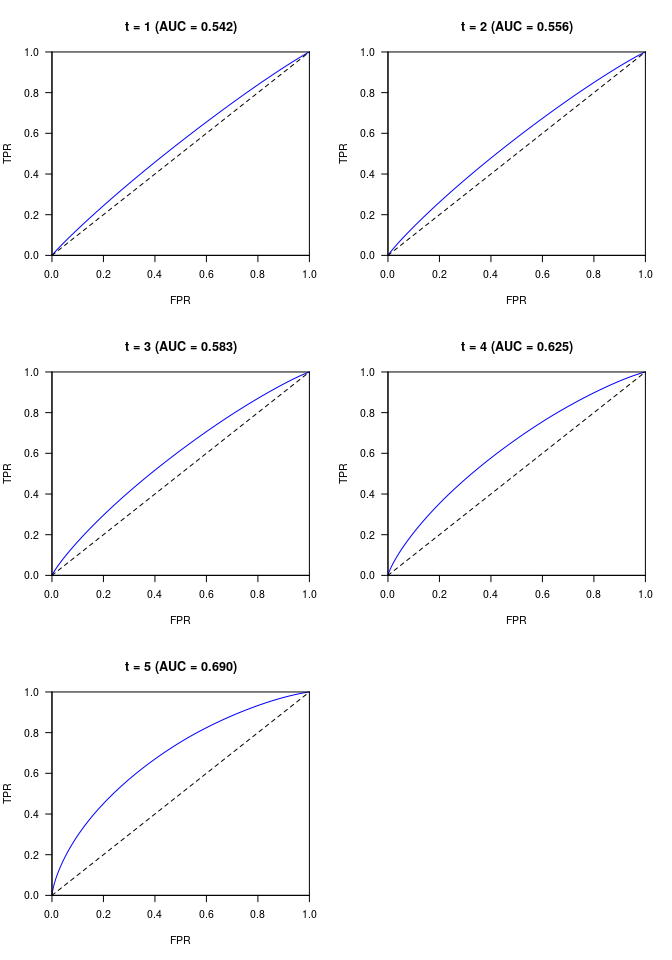
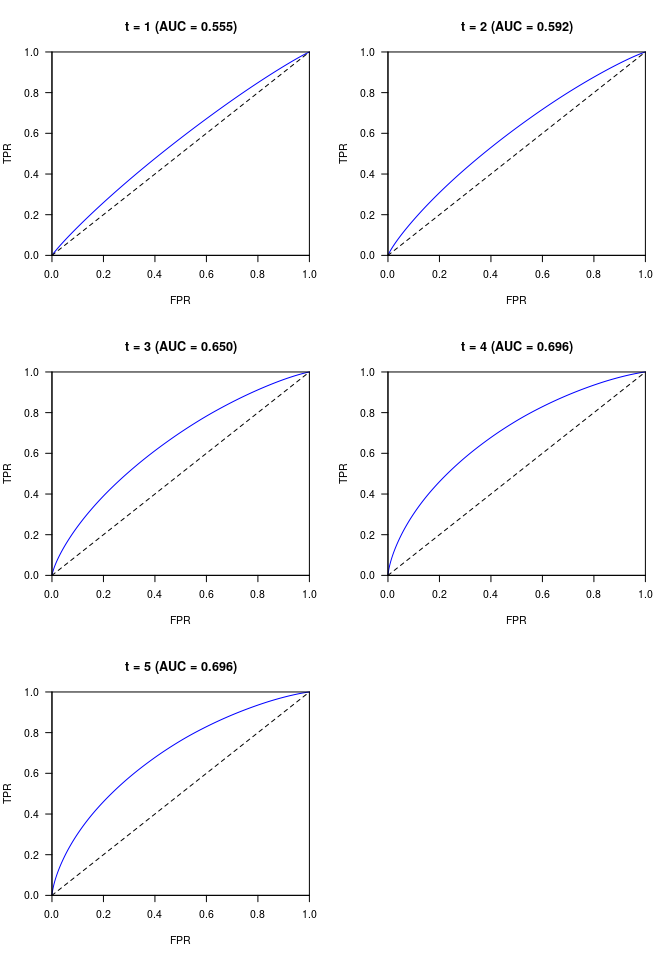
update beta parameter in README

diff --git a/README.md b/README.md
@@ -27,7 +27,7 @@ source("examples/mkdata.R")
 ```
 
 ``` r
-beta <- 1.2
+beta <- 1.5
 lambda0 <- 0.01 * (1:5)
 theta <- c(0.9, 0.88, 0.85, 0.8, 0.75)
 phi <- rep(0.95, 5)
@@ -43,17 +43,17 @@ data.table::data.table(data)
 ```
 
     ##       t0 d0        z
-    ##    1:  2  1 2.937355
-    ##    2:  3  1 3.018364
-    ##    3:  3  1 2.916437
-    ##    4:  2  1 3.159528
-    ##    5:  2  1 3.032951
+    ##    1:  1  1 2.937355
+    ##    2:  2  1 3.018364
+    ##    3:  2  1 2.916437
+    ##    4:  1  1 3.159528
+    ##    5:  1  1 3.032951
     ##   ---               
-    ## 4996:  2  1 3.016255
-    ## 4997:  3  1 3.098074
-    ## 4998:  5  1 2.930786
-    ## 4999:  5  0 2.999651
-    ## 5000:  4  1 3.017158
+    ## 4996:  1  1 3.016255
+    ## 4997:  2  1 3.098074
+    ## 4998:  3  1 2.930786
+    ## 4999:  2  1 2.999651
+    ## 5000:  2  1 3.017158
 
 ``` r
 with(data, addmargins(table(d0, t0)))
@@ -61,9 +61,9 @@ with(data, addmargins(table(d0, t0)))
 
     ##      t0
     ## d0       1    2    3    4    5  Sum
-    ##   0      0    0    0    0  177  177
-    ##   1   1448 1725 1119  420  111 4823
-    ##   Sum 1448 1725 1119  420  288 5000
+    ##   0      0    0    0    0   25   25
+    ##   1   2734 1727  442   67    5 4975
+    ##   Sum 2734 1727  442   67   30 5000
 
 ### Model Fitting
 
@@ -98,17 +98,17 @@ data.frame(name = c("beta",
 ```
 
     ##         name truth param
-    ## 1       beta  1.20 1.244
-    ## 2  lambda0_1  0.01 0.007
-    ## 3  lambda0_2  0.02 0.016
-    ## 4  lambda0_3  0.03 0.026
-    ## 5  lambda0_4  0.04 0.035
-    ## 6  lambda0_5  0.05 0.054
-    ## 7    theta_1  0.90 0.958
-    ## 8    theta_2  0.88 0.137
-    ## 9    theta_3  0.85 0.030
-    ## 10   theta_4  0.80 0.011
-    ## 11   theta_5  0.75 0.013
+    ## 1       beta  1.50 1.334
+    ## 2  lambda0_1  0.01 0.014
+    ## 3  lambda0_2  0.02 0.026
+    ## 4  lambda0_3  0.03 0.035
+    ## 5  lambda0_4  0.04 0.028
+    ## 6  lambda0_5  0.05 0.000
+    ## 7    theta_1  0.90 0.995
+    ## 8    theta_2  0.88 0.204
+    ## 9    theta_3  0.85 0.036
+    ## 10   theta_4  0.80 0.639
+    ## 11   theta_5  0.75 0.006
 
 ``` r
 # cumulative baseline hazards
@@ -118,11 +118,11 @@ data.frame(name = paste0("Lambda0_", 1:5),
 ```
 
     ##        name truth param
-    ## 1 Lambda0_1  0.01 0.007
-    ## 2 Lambda0_2  0.03 0.023
-    ## 3 Lambda0_3  0.06 0.049
-    ## 4 Lambda0_4  0.10 0.084
-    ## 5 Lambda0_5  0.15 0.139
+    ## 1 Lambda0_1  0.01 0.014
+    ## 2 Lambda0_2  0.03 0.040
+    ## 3 Lambda0_3  0.06 0.074
+    ## 4 Lambda0_4  0.10 0.102
+    ## 5 Lambda0_5  0.15 0.102
 
 ### Accuracy Measures
 
@@ -135,7 +135,7 @@ est <- acc_est(
 est$AUC
 ```
 
-    ## [1] 0.5417640 0.5558920 0.5830374 0.6247689 0.6900169
+    ## [1] 0.5545099 0.5922320 0.6498856 0.6955478 0.6955681
 
 ``` r
 # AUC at true parameters
@@ -145,7 +145,7 @@ acc_est(
    lambda0 = lambda0)$AUC
 ```
 
-    ## [1] 0.5415030 0.5569595 0.5842245 0.6248285 0.6764600
+    ## [1] 0.5654422 0.6203994 0.7086030 0.8068632 0.8903748
 
 ``` r
 par(mfrow = c(3, 2))
@@ -169,4 +169,4 @@ proc.time()
 ```
 
     ##    user  system elapsed 
-    ##  27.223   2.325  29.526
+    ##  32.026   2.269  34.281
